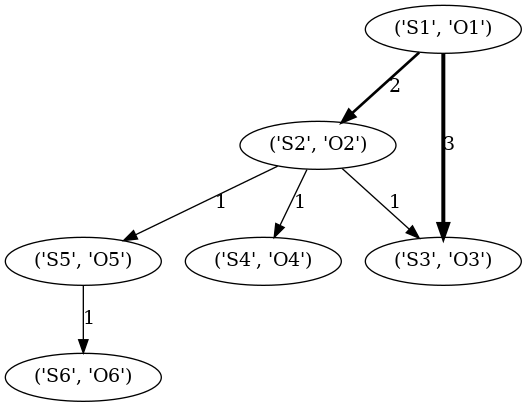
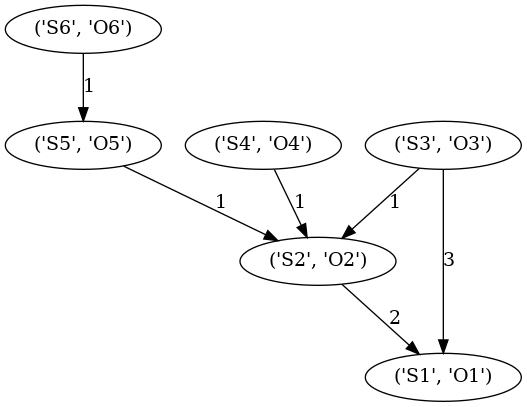
rev arrow, rem penwidth

diff --git a/out/dotgraph.py b/out/dotgraph.py
@@ -15,7 +15,7 @@ for k,v in data.items():
 
 for k,v in data.items():
     for n,val in v[4].items():
-        g.edge(k,n,weight=str(val),penwidth=str(val),label=str(val))
+        g.edge(n,k,weight=str(val),label=str(val))
 
 
 
